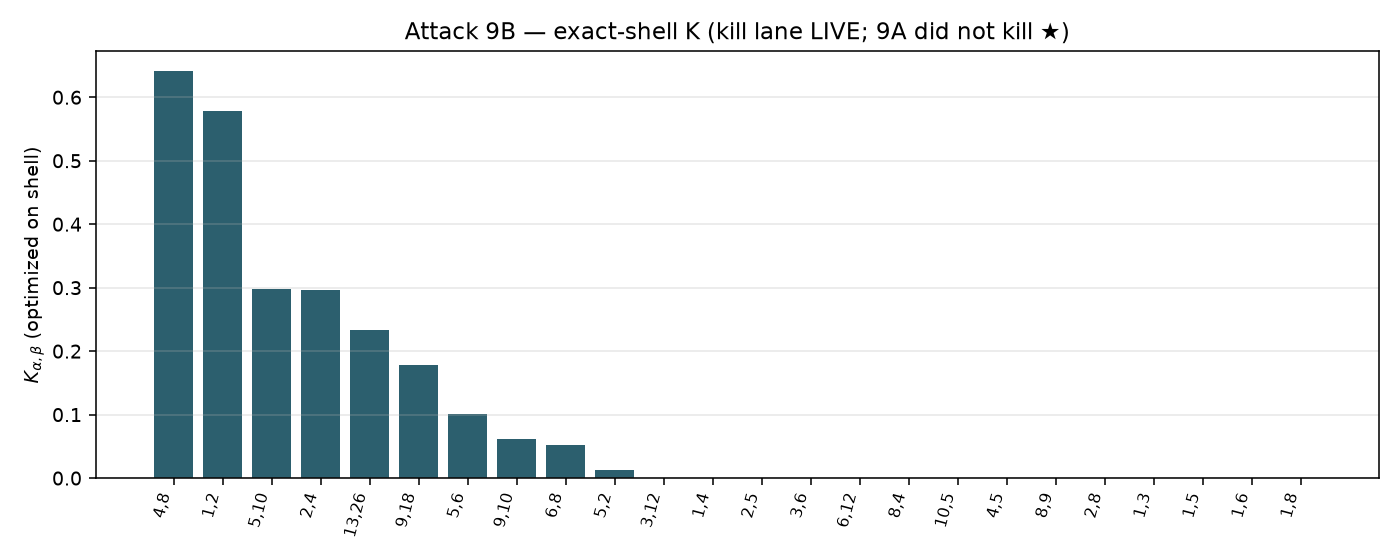
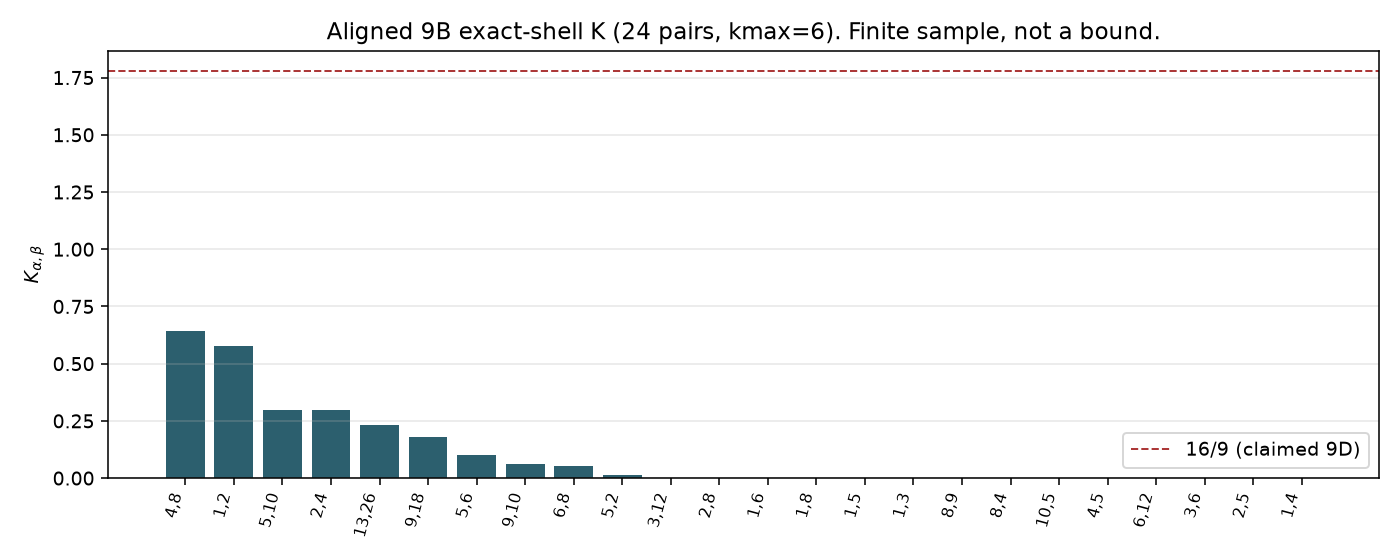
Answer six 9D questions and commit K-by-pair plots.
Four-thirds remains a claim. 0.641 and 0.456 are sweep maxima, not
the only samples. No external specialist review. No replacement theorem.

diff --git a/scripts/plot_k_sweeps.py b/scripts/plot_k_sweeps.py
@@ -1,0 +1,71 @@
+#!/usr/bin/env python3
+"""Regenerate K-by-pair plots from committed JSON. Does not rerun searches."""
+
+from __future__ import annotations
+
+import json
+from pathlib import Path
+
+import matplotlib
+
+matplotlib.use("Agg")
+import matplotlib.pyplot as plt
+import numpy as np
+
+ROOT = Path(__file__).resolve().parents[1]
+NINE_B = ROOT / "results/ns_five_lane_2026-09-10/attack9b_exact_shell"
+NINE_D = ROOT / "results/attack9d_growing_io"
+
+
+def plot_9b() -> Path:
+    data = json.loads((NINE_B / "attack9b.json").read_text())
+    rows = data["per_pair"]
+    order = np.argsort([r["K"] for r in rows])[::-1]
+    labels = [f"{rows[i]['alpha']},{rows[i]['beta']}" for i in order]
+    Ks = [rows[i]["K"] for i in order]
+    fig, ax = plt.subplots(figsize=(10, 4))
+    ax.bar(range(len(Ks)), Ks, color="#2c5f6e")
+    ax.set_xticks(range(len(Ks)))
+    ax.set_xticklabels(labels, rotation=75, ha="right", fontsize=8)
+    ax.set_ylabel(r"$K_{\alpha,\beta}$")
+    ax.set_title("Aligned 9B exact-shell K (24 pairs, kmax=6). Finite sample, not a bound.")
+    ax.axhline(16 / 9, color="#a33", linestyle="--", linewidth=1, label=r"$16/9$ (claimed 9D)")
+    ax.legend()
+    ax.grid(True, axis="y", alpha=0.3)
+    fig.tight_layout()
+    out = NINE_B / "K_by_ab_pair.png"
+    fig.savefig(out, dpi=140)
+    plt.close(fig)
+    return out
+
+
+def plot_9d_top() -> Path:
+    data = json.loads((NINE_D / "attack9d_growing_io.json").read_text())
+    rows = [r for r in data["per_pair"] if r["K"] > 0]
+    rows.sort(key=lambda r: r["K"], reverse=True)
+    top = rows[:20]
+    labels = [f"{r['alpha']},{r['beta']}" for r in top]
+    Ks = [r["K"] for r in top]
+    fig, ax = plt.subplots(figsize=(10, 4))
+    ax.bar(range(len(Ks)), Ks, color="#4a7c59")
+    ax.set_xticks(range(len(Ks)))
+    ax.set_xticklabels(labels, rotation=75, ha="right", fontsize=8)
+    ax.set_ylabel(r"$K_{\alpha,\beta}$")
+    ax.set_title("Natural 9D growing I/O: top 20 of 1632 pairs (kmax=5). Finite sample.")
+    ax.axhline(16 / 9, color="#a33", linestyle="--", linewidth=1, label=r"$16/9$ (claimed 9D)")
+    ax.legend()
+    ax.grid(True, axis="y", alpha=0.3)
+    fig.tight_layout()
+    out = NINE_D / "K_top20.png"
+    fig.savefig(out, dpi=140)
+    plt.close(fig)
+    return out
+
+
+def main() -> None:
+    print(plot_9b())
+    print(plot_9d_top())
+
+
+if __name__ == "__main__":
+    main()

diff --git a/tests/test_plot_k_sweeps.py b/tests/test_plot_k_sweeps.py
@@ -1,0 +1,20 @@
+"""Plots regenerate from committed JSON. Finite samples, not a bound."""
+
+from __future__ import annotations
+
+import sys
+from pathlib import Path
+
+SCRIPTS = Path(__file__).resolve().parents[1] / "scripts"
+sys.path.insert(0, str(SCRIPTS))
+
+import plot_k_sweeps as plots  # noqa: E402
+
+
+def test_plots_write_from_committed_json():
+    p1 = plots.plot_9b()
+    p2 = plots.plot_9d_top()
+    assert p1.is_file() and p1.stat().st_size > 1000
+    assert p2.is_file() and p2.stat().st_size > 1000
+    root = Path(__file__).resolve().parents[1]
+    assert (root / "results/ns_five_lane_2026-09-10/attack9b_exact_shell/attack9b.json").is_file()

diff --git a/docs/ns-recovery/SIX-QUESTIONS.md b/docs/ns-recovery/SIX-QUESTIONS.md
@@ -1,0 +1,94 @@
+# Six questions — straight answers
+
+**Date:** 12 September 2026  
+**This book.** Anyone can read this without the backstory.  
+**NS is not solved.** No singular Navier–Stokes solution is constructed.
+
+---
+
+## 1. Is the exact-shell 9D four-thirds coefficient proven?
+
+**No. It is still a claim.** Specialist review has not happened.
+
+The claimed statement is: if \(Aw=\alpha w\) and \(\beta>0\), then
+
+\[
+\|\Pi_\beta B(w,w)\|_2
+\le
+\frac43\frac{\alpha}{\sqrt{\beta}}\|w\|_2^2,
+\]
+
+equivalently \(K_{\alpha,\beta}(w)\le 16/9\). Optimality is not claimed.
+
+This book does **not** stamp that coefficient. The writeup on PR #24 says **CLAIMED, specialist pending**. The audit there checks a few shells and three weighted-count ratios \(\le 3\). Those are checks, not a lattice theorem and not a proof-assistant verification.
+
+---
+
+## 2. Are 0.641 and 0.456 the only samples?
+
+**No.** Those two numbers are the **maxima of two different finite sweeps**. They are not a universal constant. They must not be merged into one “best \(K\)”.
+
+| Sweep | What it is | Width | Recorded max \(K\) |
+|---|---|---|---|
+| Aligned 9B (this book) | Optimized / aligned closer on exact shells | \(k_{\max}=6\), **24** \((\alpha,\beta)\) pairs | **0.641013** at \((4,8)\) |
+| Natural 9D growing I/O (this book) | Random complex polarizations, growing supports | \(k_{\max}=5\), **1632** pairs (298 with \(K>0\)) | **0.469472** at \((1,2)\) |
+| PR #24 grow-\(s\) | Random draw, seed 1390 | \(k_{\max}=8\), 2084 inputs, **39853** occupied rows | **0.45583** at \((16,32)\), \(s=4\) |
+
+The largest *observed* value on this book is **0.641**. The grow-\(s\) sweep is the widest in occupancy and did **not** beat that. Larger occupancy on that draw lowered \(K\) (\(\max K\) on \(s\ge 24\) was 0.239). None of these is an exhaustive search over all shells.
+
+---
+
+## 3. Is there a plot or table for many shell pairs?
+
+**Yes, a table and now plots. Not a proof.**
+
+- Aligned 9B table of all 24 pairs: [`results/ns_five_lane_2026-09-10/attack9b_exact_shell/HEADLINE.md`](../../results/ns_five_lane_2026-09-10/attack9b_exact_shell/HEADLINE.md)
+- Plot of those 24: [`results/ns_five_lane_2026-09-10/attack9b_exact_shell/K_by_ab_pair.png`](../../results/ns_five_lane_2026-09-10/attack9b_exact_shell/K_by_ab_pair.png)
+- Natural 9D JSON of 1632 pairs: [`results/attack9d_growing_io/attack9d_growing_io.json`](../../results/attack9d_growing_io/attack9d_growing_io.json)
+- Top 20 of that sweep: [`results/attack9d_growing_io/K_top20.png`](../../results/attack9d_growing_io/K_top20.png)
+- PR #24 grow-\(s\) summary is committed on that PR; the raw per-row dump is **not** committed.
+
+Every plotted \(K\) sits below the claimed \(16/9\approx 1.778\). That does not prove the bound.
+
+---
+
+## 4. Has anyone outside this circle checked the 9D algebra?
+
+**No.**
+
+Evaluator matches (this book’s core, PR #24 `stokes_moments`, the closure-review audit) are in-circle computational checks. They are not an independent specialist reading of the weighted sphere count or the polarization factor. The record still says specialist review pending.
+
+---
+
+## 5. If the 9D bound is true, does it feed a regularity argument?
+
+**Not as written. It sits unused for regularity.**
+
+Even if the four-thirds coefficient were later proved, it is an **exact-shell** bound on \(\|\Pi_\beta B(w,w)\|_2\). That is not unrestricted Lemma★.
+
+- The growing-layer family \(v_n\) that killed unrestricted ★ is **not** exact-shell. 9D does not control it.
+- Near-shell, \(\mathcal R_\star(w+\varepsilon z_\beta)\to K_{\alpha,\beta}(w)\) only for an aligned, sign-selected closer. That is a restricted family.
+- The unaugmented regularity program used unrestricted ★ as closure. That closure is **dead**. Nobody has written a chain “9D \(\Rightarrow\) global regularity.”
+- Soft X, SND, Theorem H stay silent. Do not glue them in.
+
+A true 9D bound would answer the exact-shell coefficient question. It would not, by itself, replace the dead instantaneous estimate.
+
+---
+
+## 6. What is the actual replacement closure, and has anyone started writing it?
+
+**There is no written replacement theorem.** What exists is a framing page and one negative check.
+
+Two *kinds* of replacement were named. Neither is a theorem:
+
+1. **Restricted class** (same \(\mathcal R_\star\) ratio, fewer fields). Bounded eigenvalue aspect **fails** as a repair: \(v_n\) has aspect exactly 6, so any class with aspect \(\le R\) and \(R\ge 6\) still contains the diverging family. One-shell fields are vacuous (\(D_s=T_c=0\)). A two-shell or sparse-spectrum class has **not** been written.
+2. **A different inequality** (extra factor in the denominator). On \(v_n\), \(\mathcal R_\star/\sqrt{X/E}\) does not climb. That is a diagnostic on one family. It is **not proved**, not checked elsewhere, and not known to close regularity.
+
+A **time-integrated** version of the old ★ bound has **not** been started. The viscosity packaging already in the canonical page is the same instantaneous statement in other clothes; integrating a false uniform bound does not repair it.
+
+Page: [`REPLACEMENT-CLOSURE.md`](REPLACEMENT-CLOSURE.md).  
+Need★ cannot restore the old box unless its hypotheses change.
+
+---
+
+**NS not solved.** Do not send a Clay / regularity close.

diff --git a/docs/ns-recovery/GROK_HEAVY.md b/docs/ns-recovery/GROK_HEAVY.md
@@ -36,7 +36,7 @@ Human: Jonathan Simons (`winchester.anesthesia@gmail.com` / `simonsmedical@iclou
 
 ## What you are being asked to do
 
-Remaining-work lock: [`WHAT-ELSE.md`](WHAT-ELSE.md). Replacement closure: [`REPLACEMENT-CLOSURE.md`](REPLACEMENT-CLOSURE.md). Bounded aspect does not exclude \(v_n\).
+Remaining-work lock: [`WHAT-ELSE.md`](WHAT-ELSE.md). Six straight answers: [`SIX-QUESTIONS.md`](SIX-QUESTIONS.md). Replacement closure: [`REPLACEMENT-CLOSURE.md`](REPLACEMENT-CLOSURE.md). Bounded aspect does not exclude \(v_n\).
 
 1. **Unrestricted ★ is dead** on \(v_n\). Replacement closure for unaugmented regularity is the live analytic job. Need★ dual cannot repair the same bound.
 2. **Exact-shell 9D** (\(K\le16/9\) claimed): **not stamped**. Writeup is on the PR #24 tip and says CLAIMED, specialist pending.

diff --git a/docs/ns-recovery/WHAT-ELSE.md b/docs/ns-recovery/WHAT-ELSE.md
@@ -3,7 +3,7 @@
 **Locked:** 12 September 2026 (after growing-layer score)  
 **This wording is the record.**
 
-**NS is not solved.** Unrestricted Lemma★ (one finite \(C_{\mathrm{geom}}\) for every divergence-free field) is **dead** on \(v_n\). Score: [`GROWING-LAYER-SCORE.md`](GROWING-LAYER-SCORE.md).
+**NS is not solved.** Unrestricted Lemma★ (one finite \(C_{\mathrm{geom}}\) for every divergence-free field) is **dead** on \(v_n\). Score: [`GROWING-LAYER-SCORE.md`](GROWING-LAYER-SCORE.md). Six straight answers: [`SIX-QUESTIONS.md`](SIX-QUESTIONS.md).
 
 ---
 
